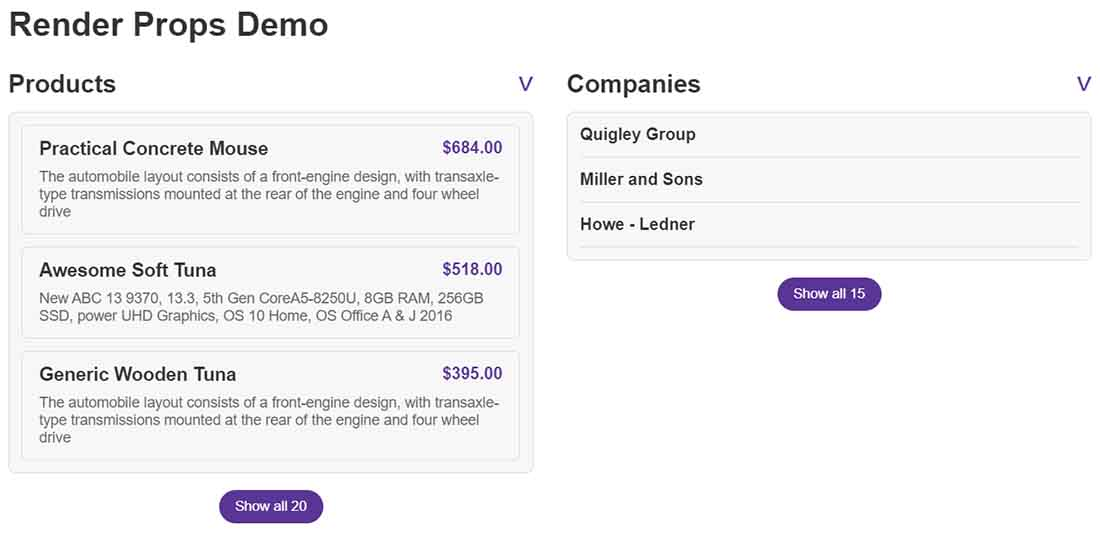
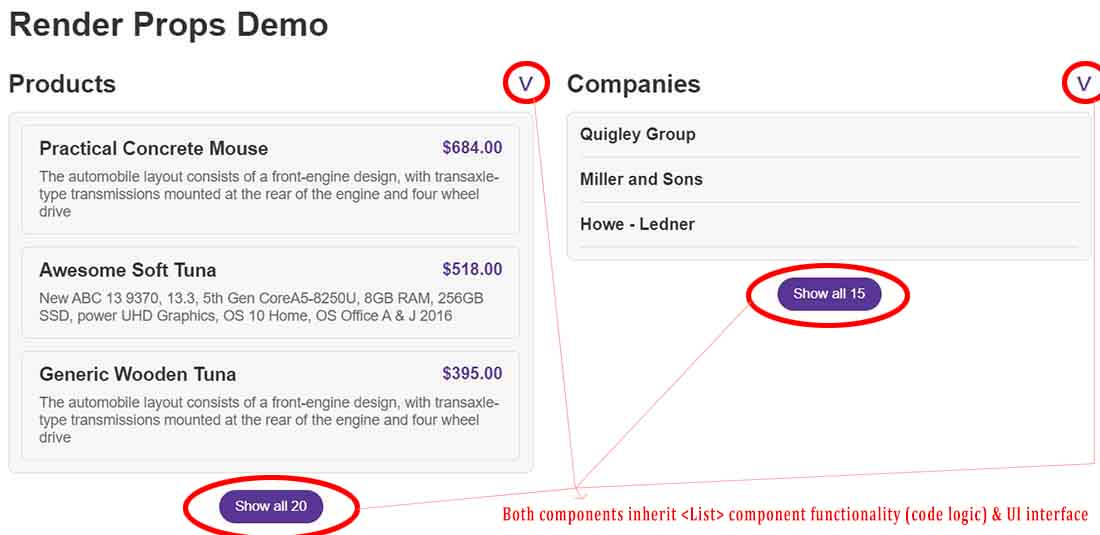
update

diff --git a/src/markdowns/17_Reusability_in_React_advanced_React_patterns/The_HOC_pattern.html b/src/markdowns/17_Reusability_in_React_advanced_React_patterns/The_HOC_pattern.html
@@ -2340,11 +2340,11 @@ li {
 </style><title>The_HOC_pattern</title>
 </head>
 <body class='typora-export os-windows'><div class='typora-export-content'>
-<div id='write'  class=''><h1 id='the-higher-order-components-hoc-pattern'><span>The Higher-Order Components (HOC) pattern</span></h1><p><span>The Higher-Order Component pattern is even less used than Render Prop Pattern, but it still very important for you to know about it. Basically we want to do something similar to what we did with the Render Props pattern, but with the Higher Order Component pattern.</span></p><p><span>Now, I would actually say that almost no one still writes Higher Order Components by hand, but I&#39;m still gonna show you this because some libraries, do actually expose Higher Order Components, and then it&#39;s gonna be very useful to know what they are. So you don&#39;t need to know how to write them and in this lecture, I will just quickly show you a Higher Order Component, what it is, and how it works, and also why it would be used.</span></p><pre class="md-fences md-end-block ty-contain-cm modeLoaded" spellcheck="false" lang="react"><div class="CodeMirror cm-s-inner cm-s-null-scroll CodeMirror-wrap" lang="react"><div style="overflow: hidden; position: relative; width: 3px; height: 0px; top: 9.51875px; left: 8px;"><textarea autocorrect="off" autocapitalize="off" spellcheck="false" tabindex="0" style="position: absolute; bottom: -1em; padding: 0px; width: 1000px; height: 1em; outline: none;"></textarea></div><div class="CodeMirror-scrollbar-filler" cm-not-content="true"></div><div class="CodeMirror-gutter-filler" cm-not-content="true"></div><div class="CodeMirror-scroll" tabindex="-1"><div class="CodeMirror-sizer" style="margin-left: 0px; margin-bottom: 0px; border-right-width: 0px; padding-right: 0px; padding-bottom: 0px;"><div style="position: relative; top: 0px;"><div class="CodeMirror-lines" role="presentation"><div role="presentation" style="position: relative; outline: none;"><div class="CodeMirror-measure"><pre><span>xxxxxxxxxx</span></pre></div><div class="CodeMirror-measure"></div><div style="position: relative; z-index: 1;"></div><div class="CodeMirror-code" role="presentation" style=""><div class="CodeMirror-activeline" style="position: relative;"><div class="CodeMirror-activeline-background CodeMirror-linebackground"></div><div class="CodeMirror-gutter-background CodeMirror-activeline-gutter" style="left: 0px; width: 0px;"></div><pre class=" CodeMirror-line " role="presentation"><span role="presentation" style="padding-right: 0.1px;"><span class="cm-keyword">function</span> <span class="cm-def">ProductList</span>({ <span class="cm-def">title</span>, <span class="cm-def">items</span> }) {</span></pre></div><pre class=" CodeMirror-line " role="presentation"><span role="presentation" style="padding-right: 0.1px;"> &nbsp;<span class="cm-keyword">return</span> (</span></pre><pre class=" CodeMirror-line " role="presentation"><span role="presentation" style="padding-right: 0.1px;"> &nbsp; &nbsp;<span class="cm-tag cm-bracket">&lt;</span><span class="cm-tag">ul</span> <span class="cm-attribute">className</span>=<span class="cm-string">"list"</span><span class="cm-tag cm-bracket">&gt;</span></span></pre><pre class=" CodeMirror-line " role="presentation"><span role="presentation" style="padding-right: 0.1px;"> &nbsp; &nbsp;  {<span class="cm-variable">items</span>.<span class="cm-property">map</span>((<span class="cm-variable">product</span>) <span class="cm-operator">=&gt;</span> (</span></pre><pre class=" CodeMirror-line " role="presentation"><span role="presentation" style="padding-right: 0.1px;"> &nbsp; &nbsp; &nbsp; &nbsp;<span class="cm-tag cm-bracket">&lt;</span><span class="cm-tag">ProductItem</span> <span class="cm-attribute">key</span>={<span class="cm-variable">product</span>.<span class="cm-property">productName</span>} <span class="cm-attribute">product</span>={<span class="cm-variable">product</span>} <span class="cm-tag cm-bracket">/&gt;</span></span></pre><pre class=" CodeMirror-line " role="presentation"><span role="presentation" style="padding-right: 0.1px;"> &nbsp; &nbsp;  ))}</span></pre><pre class=" CodeMirror-line " role="presentation"><span role="presentation" style="padding-right: 0.1px;"> &nbsp; &nbsp;<span class="cm-tag cm-bracket">&lt;/</span><span class="cm-tag">ul</span><span class="cm-tag cm-bracket">&gt;</span></span></pre><pre class=" CodeMirror-line " role="presentation"><span role="presentation" style="padding-right: 0.1px;">  );</span></pre><pre class=" CodeMirror-line " role="presentation"><span role="presentation" style="padding-right: 0.1px;">}</span></pre></div></div></div></div></div><div style="position: absolute; height: 0px; width: 1px; border-bottom: 0px solid transparent; top: 207px;"></div><div class="CodeMirror-gutters" style="display: none; height: 207px;"></div></div></div></pre><p><span>Let&#39;s say we got the </span><code>&lt;ProductList&gt;</code><span> component from a 3rd-party library, and can&#39;t change it, but we still want to add the two toggle functionalities from </span><code>&lt;List&gt;</code><span> component (the component used in Render Props Pattern lecture) to it. So how could we do that?</span></p><p><span>One way would be to </span><mark><span>write a Higher Order Component to basically enhance or improve the </span><code>&lt;ProductList&gt;</code><span> component. A Higher Order Component is simply a component that </span><strong><span>takes in another component</span></strong><span> and then </span><strong><span>returns a new component</span></strong><span> that is better, so an enhanced version of the initial component.</span></mark></p><p><span>I actually already created the Higher Order Component called </span><code>withToggles</code><span> and let&#39;s take a look at it:</span></p><pre class="md-fences md-end-block ty-contain-cm modeLoaded" spellcheck="false" lang="react" style="break-inside: unset;"><div class="CodeMirror cm-s-inner cm-s-null-scroll CodeMirror-wrap" lang="react"><div style="overflow: hidden; position: relative; width: 3px; height: 0px; top: 9.51875px; left: 8px;"><textarea autocorrect="off" autocapitalize="off" spellcheck="false" tabindex="0" style="position: absolute; bottom: -1em; padding: 0px; width: 1000px; height: 1em; outline: none;"></textarea></div><div class="CodeMirror-scrollbar-filler" cm-not-content="true"></div><div class="CodeMirror-gutter-filler" cm-not-content="true"></div><div class="CodeMirror-scroll" tabindex="-1"><div class="CodeMirror-sizer" style="margin-left: 0px; margin-bottom: 0px; border-right-width: 0px; padding-right: 0px; padding-bottom: 0px;"><div style="position: relative; top: 0px;"><div class="CodeMirror-lines" role="presentation"><div role="presentation" style="position: relative; outline: none;"><div class="CodeMirror-measure"><pre><span>xxxxxxxxxx</span></pre></div><div class="CodeMirror-measure"></div><div style="position: relative; z-index: 1;"></div><div class="CodeMirror-code" role="presentation" style=""><div class="CodeMirror-activeline" style="position: relative;"><div class="CodeMirror-activeline-background CodeMirror-linebackground"></div><div class="CodeMirror-gutter-background CodeMirror-activeline-gutter" style="left: 0px; width: 0px;"></div><pre class=" CodeMirror-line " role="presentation"><span role="presentation" style="padding-right: 0.1px;"><span class="cm-keyword">import</span> { <span class="cm-def">useState</span> } <span class="cm-keyword">from</span> <span class="cm-string">"react"</span>;</span></pre></div><pre class=" CodeMirror-line " role="presentation"><span role="presentation" style="padding-right: 0.1px;"><span cm-text="" cm-zwsp="">
+<div id='write'  class=''><h1 id='the-higher-order-components-hoc-pattern'><span>The Higher-Order Components (HOC) pattern</span></h1><p><span>The Higher-Order Component pattern is even less used than Render Prop Pattern, but it still very important for you to know about it. Basically we want to do something similar to what we did with the Render Props pattern, but with the Higher Order Component pattern.</span></p><p><span>Now, I would actually say that almost no one still writes Higher Order Components by hand, but I&#39;m still gonna show you this because some libraries, do actually expose Higher Order Components, and then it&#39;s gonna be very useful to know what they are. So you don&#39;t need to know how to write them and in this lecture, I will just quickly show you a Higher Order Component, what it is, and how it works, and also why it would be used.</span></p><pre class="md-fences md-end-block ty-contain-cm modeLoaded" spellcheck="false" lang="react"><div class="CodeMirror cm-s-inner cm-s-null-scroll CodeMirror-wrap" lang="react"><div style="overflow: hidden; position: relative; width: 3px; height: 0px; top: 9.51875px; left: 8px;"><textarea autocorrect="off" autocapitalize="off" spellcheck="false" tabindex="0" style="position: absolute; bottom: -1em; padding: 0px; width: 1000px; height: 1em; outline: none;"></textarea></div><div class="CodeMirror-scrollbar-filler" cm-not-content="true"></div><div class="CodeMirror-gutter-filler" cm-not-content="true"></div><div class="CodeMirror-scroll" tabindex="-1"><div class="CodeMirror-sizer" style="margin-left: 0px; margin-bottom: 0px; border-right-width: 0px; padding-right: 0px; padding-bottom: 0px;"><div style="position: relative; top: 0px;"><div class="CodeMirror-lines" role="presentation"><div role="presentation" style="position: relative; outline: none;"><div class="CodeMirror-measure"></div><div class="CodeMirror-measure"></div><div style="position: relative; z-index: 1;"></div><div class="CodeMirror-code" role="presentation" style=""><div class="CodeMirror-activeline" style="position: relative;"><div class="CodeMirror-activeline-background CodeMirror-linebackground"></div><div class="CodeMirror-gutter-background CodeMirror-activeline-gutter" style="left: 0px; width: 0px;"></div><pre class=" CodeMirror-line " role="presentation"><span role="presentation" style="padding-right: 0.1px;"><span class="cm-keyword">function</span> <span class="cm-def">ProductList</span>({ <span class="cm-def">title</span>, <span class="cm-def">items</span> }) {</span></pre></div><pre class=" CodeMirror-line " role="presentation"><span role="presentation" style="padding-right: 0.1px;"> &nbsp;<span class="cm-keyword">return</span> (</span></pre><pre class=" CodeMirror-line " role="presentation"><span role="presentation" style="padding-right: 0.1px;"> &nbsp; &nbsp;<span class="cm-tag cm-bracket">&lt;</span><span class="cm-tag">ul</span> <span class="cm-attribute">className</span>=<span class="cm-string">"list"</span><span class="cm-tag cm-bracket">&gt;</span></span></pre><pre class=" CodeMirror-line " role="presentation"><span role="presentation" style="padding-right: 0.1px;"> &nbsp; &nbsp;  {<span class="cm-variable">items</span>.<span class="cm-property">map</span>((<span class="cm-variable">product</span>) <span class="cm-operator">=&gt;</span> (</span></pre><pre class=" CodeMirror-line " role="presentation"><span role="presentation" style="padding-right: 0.1px;"> &nbsp; &nbsp; &nbsp; &nbsp;<span class="cm-tag cm-bracket">&lt;</span><span class="cm-tag">ProductItem</span> <span class="cm-attribute">key</span>={<span class="cm-variable">product</span>.<span class="cm-property">productName</span>} <span class="cm-attribute">product</span>={<span class="cm-variable">product</span>} <span class="cm-tag cm-bracket">/&gt;</span></span></pre><pre class=" CodeMirror-line " role="presentation"><span role="presentation" style="padding-right: 0.1px;"> &nbsp; &nbsp;  ))}</span></pre><pre class=" CodeMirror-line " role="presentation"><span role="presentation" style="padding-right: 0.1px;"> &nbsp; &nbsp;<span class="cm-tag cm-bracket">&lt;/</span><span class="cm-tag">ul</span><span class="cm-tag cm-bracket">&gt;</span></span></pre><pre class=" CodeMirror-line " role="presentation"><span role="presentation" style="padding-right: 0.1px;">  );</span></pre><pre class=" CodeMirror-line " role="presentation"><span role="presentation" style="padding-right: 0.1px;">}</span></pre></div></div></div></div></div><div style="position: absolute; height: 0px; width: 1px; border-bottom: 0px solid transparent; top: 207px;"></div><div class="CodeMirror-gutters" style="display: none; height: 207px;"></div></div></div></pre><p><span>Let&#39;s say we got the </span><code>&lt;ProductList&gt;</code><span> component from a 3rd-party library, and can&#39;t change it, but we still want to add the two toggle functionalities from </span><code>&lt;List&gt;</code><span> component (the component used in Render Props Pattern lecture) to it. So how could we do that?</span></p><p><span>One way would be to </span><mark><span>write a Higher Order Component to basically enhance or improve the </span><code>&lt;ProductList&gt;</code><span> component. A Higher Order Component is simply a component that </span><strong><span>takes in another component</span></strong><span> and then </span><strong><span>returns a new component</span></strong><span> that is better, so an enhanced version of the initial component.</span></mark></p><p><span>I actually already created the Higher Order Component called </span><code>withToggles</code><span> and let&#39;s take a look at it:</span></p><pre class="md-fences md-end-block ty-contain-cm modeLoaded" spellcheck="false" lang="react" style="break-inside: unset;"><div class="CodeMirror cm-s-inner cm-s-null-scroll CodeMirror-wrap" lang="react"><div style="overflow: hidden; position: relative; width: 3px; height: 0px; top: 9.51875px; left: 8px;"><textarea autocorrect="off" autocapitalize="off" spellcheck="false" tabindex="0" style="position: absolute; bottom: -1em; padding: 0px; width: 1000px; height: 1em; outline: none;"></textarea></div><div class="CodeMirror-scrollbar-filler" cm-not-content="true"></div><div class="CodeMirror-gutter-filler" cm-not-content="true"></div><div class="CodeMirror-scroll" tabindex="-1"><div class="CodeMirror-sizer" style="margin-left: 0px; margin-bottom: 0px; border-right-width: 0px; padding-right: 0px; padding-bottom: 0px;"><div style="position: relative; top: 0px;"><div class="CodeMirror-lines" role="presentation"><div role="presentation" style="position: relative; outline: none;"><div class="CodeMirror-measure"><span><span></span>x</span></div><div class="CodeMirror-measure"></div><div style="position: relative; z-index: 1;"></div><div class="CodeMirror-code" role="presentation" style=""><div class="CodeMirror-activeline" style="position: relative;"><div class="CodeMirror-activeline-background CodeMirror-linebackground"></div><div class="CodeMirror-gutter-background CodeMirror-activeline-gutter" style="left: 0px; width: 0px;"></div><pre class=" CodeMirror-line " role="presentation"><span role="presentation" style="padding-right: 0.1px;"><span class="cm-keyword">import</span> { <span class="cm-def">useState</span> } <span class="cm-keyword">from</span> <span class="cm-string">"react"</span>;</span></pre></div><pre class=" CodeMirror-line " role="presentation"><span role="presentation" style="padding-right: 0.1px;"><span cm-text="" cm-zwsp="">
 </span></span></pre><pre class=" CodeMirror-line " role="presentation"><span role="presentation" style="padding-right: 0.1px;"><span class="cm-keyword">export</span> <span class="cm-keyword">default</span> <span class="cm-keyword">function</span> <span class="cm-def">withToggles</span>(<span class="cm-def">WrappedComponent</span>) {</span></pre><pre class=" CodeMirror-line " role="presentation"><span role="presentation" style="padding-right: 0.1px;"> &nbsp;<span class="cm-keyword">return</span> <span class="cm-keyword">function</span> <span class="cm-def">List</span>(<span class="cm-def">props</span>) {</span></pre><pre class=" CodeMirror-line " role="presentation"><span role="presentation" style="padding-right: 0.1px;"> &nbsp; &nbsp;<span class="cm-keyword">const</span> [<span class="cm-def">isOpen</span>, <span class="cm-def">setIsOpen</span>] <span class="cm-operator">=</span> <span class="cm-variable">useState</span>(<span class="cm-atom">true</span>);</span></pre><pre class=" CodeMirror-line " role="presentation"><span role="presentation" style="padding-right: 0.1px;"> &nbsp; &nbsp;<span class="cm-keyword">const</span> [<span class="cm-def">isCollapsed</span>, <span class="cm-def">setIsCollapsed</span>] <span class="cm-operator">=</span> <span class="cm-variable">useState</span>(<span class="cm-atom">false</span>);</span></pre><pre class=" CodeMirror-line " role="presentation"><span role="presentation" style="padding-right: 0.1px;"><span cm-text="" cm-zwsp="">
 </span></span></pre><pre class=" CodeMirror-line " role="presentation"><span role="presentation" style="padding-right: 0.1px;"> &nbsp; &nbsp;<span class="cm-keyword">const</span> <span class="cm-def">displayItems</span> <span class="cm-operator">=</span> <span class="cm-variable-2">isCollapsed</span> <span class="cm-operator">?</span> <span class="cm-variable-2">props</span>.<span class="cm-property">items</span>.<span class="cm-property">slice</span>(<span class="cm-number">0</span>, <span class="cm-number">3</span>) : <span class="cm-variable-2">props</span>.<span class="cm-property">items</span>;</span></pre><pre class=" CodeMirror-line " role="presentation"><span role="presentation" style="padding-right: 0.1px;"><span cm-text="" cm-zwsp="">
 </span></span></pre><pre class=" CodeMirror-line " role="presentation"><span role="presentation" style="padding-right: 0.1px;"> &nbsp; &nbsp;<span class="cm-keyword">function</span> <span class="cm-def">toggleOpen</span>() {</span></pre><pre class=" CodeMirror-line " role="presentation"><span role="presentation" style="padding-right: 0.1px;"> &nbsp; &nbsp; &nbsp;<span class="cm-variable-2">setIsOpen</span>((<span class="cm-def">isOpen</span>) <span class="cm-operator">=&gt;</span> <span class="cm-operator">!</span><span class="cm-variable-2">isOpen</span>);</span></pre><pre class=" CodeMirror-line " role="presentation"><span role="presentation" style="padding-right: 0.1px;"> &nbsp; &nbsp; &nbsp;<span class="cm-variable-2">setIsCollapsed</span>(<span class="cm-atom">false</span>);</span></pre><pre class=" CodeMirror-line " role="presentation"><span role="presentation" style="padding-right: 0.1px;"> &nbsp;  }</span></pre><pre class=" CodeMirror-line " role="presentation"><span role="presentation" style="padding-right: 0.1px;"><span cm-text="" cm-zwsp="">
 </span></span></pre><pre class=" CodeMirror-line " role="presentation"><span role="presentation" style="padding-right: 0.1px;"> &nbsp; &nbsp;<span class="cm-keyword">return</span> (</span></pre><pre class=" CodeMirror-line " role="presentation"><span role="presentation" style="padding-right: 0.1px;"> &nbsp; &nbsp; &nbsp;<span class="cm-tag cm-bracket">&lt;</span><span class="cm-tag">div</span> <span class="cm-attribute">className</span>=<span class="cm-string">"list-container"</span><span class="cm-tag cm-bracket">&gt;</span></span></pre><pre class=" CodeMirror-line " role="presentation"><span role="presentation" style="padding-right: 0.1px;"> &nbsp; &nbsp; &nbsp; &nbsp;<span class="cm-tag cm-bracket">&lt;</span><span class="cm-tag">div</span> <span class="cm-attribute">className</span>=<span class="cm-string">"heading"</span><span class="cm-tag cm-bracket">&gt;</span></span></pre><pre class=" CodeMirror-line " role="presentation"><span role="presentation" style="padding-right: 0.1px;"> &nbsp; &nbsp; &nbsp; &nbsp; &nbsp;<span class="cm-tag cm-bracket">&lt;</span><span class="cm-tag">h2</span><span class="cm-tag cm-bracket">&gt;</span>{<span class="cm-variable">props</span>.<span class="cm-property">title</span>}<span class="cm-tag cm-bracket">&lt;/</span><span class="cm-tag">h2</span><span class="cm-tag cm-bracket">&gt;</span></span></pre><pre class=" CodeMirror-line " role="presentation"><span role="presentation" style="padding-right: 0.1px;"> &nbsp; &nbsp; &nbsp; &nbsp; &nbsp;<span class="cm-tag cm-bracket">&lt;</span><span class="cm-tag">button</span> <span class="cm-attribute">onClick</span>={<span class="cm-variable">toggleOpen</span>}<span class="cm-tag cm-bracket">&gt;</span></span></pre><pre class=" CodeMirror-line " role="presentation"><span role="presentation" style="padding-right: 0.1px;"> &nbsp; &nbsp; &nbsp; &nbsp; &nbsp;  {<span class="cm-variable">isOpen</span> <span class="cm-operator">?</span> <span class="cm-tag cm-bracket">&lt;</span><span class="cm-tag">span</span><span class="cm-tag cm-bracket">&gt;</span><span class="cm-atom">&amp;or;</span><span class="cm-tag cm-bracket">&lt;/</span><span class="cm-tag">span</span><span class="cm-tag cm-bracket">&gt;</span> : <span class="cm-tag cm-bracket">&lt;</span><span class="cm-tag">span</span><span class="cm-tag cm-bracket">&gt;</span><span class="cm-atom">&amp;and;</span><span class="cm-tag cm-bracket">&lt;/</span><span class="cm-tag">span</span><span class="cm-tag cm-bracket">&gt;</span>}</span></pre><pre class=" CodeMirror-line " role="presentation"><span role="presentation" style="padding-right: 0.1px;"> &nbsp; &nbsp; &nbsp; &nbsp; &nbsp;<span class="cm-tag cm-bracket">&lt;/</span><span class="cm-tag">button</span><span class="cm-tag cm-bracket">&gt;</span></span></pre><pre class=" CodeMirror-line " role="presentation"><span role="presentation" style="padding-right: 0.1px;"> &nbsp; &nbsp; &nbsp; &nbsp;<span class="cm-tag cm-bracket">&lt;/</span><span class="cm-tag">div</span><span class="cm-tag cm-bracket">&gt;</span></span></pre><pre class=" CodeMirror-line " role="presentation"><span role="presentation" style="padding-right: 0.1px;"> &nbsp; &nbsp; &nbsp;  {<span class="cm-variable">isOpen</span> <span class="cm-operator">&amp;&amp;</span> <span class="cm-tag cm-bracket">&lt;</span><span class="cm-tag">WrappedComponent</span> {<span class="cm-meta">...</span><span class="cm-variable">props</span>} <span class="cm-attribute">items</span>={<span class="cm-variable">displayItems</span>} <span class="cm-tag cm-bracket">/&gt;</span>}</span></pre><pre class=" CodeMirror-line " role="presentation"><span role="presentation" style="padding-right: 0.1px;"><span cm-text="" cm-zwsp="">
-</span></span></pre><pre class=" CodeMirror-line " role="presentation"><span role="presentation" style="padding-right: 0.1px;"> &nbsp; &nbsp; &nbsp; &nbsp;<span class="cm-tag cm-bracket">&lt;</span><span class="cm-tag">button</span> <span class="cm-attribute">onClick</span>={() <span class="cm-operator">=&gt;</span> <span class="cm-variable">setIsCollapsed</span>((<span class="cm-def">isCollapsed</span>) <span class="cm-operator">=&gt;</span> <span class="cm-operator">!</span><span class="cm-variable-2">isCollapsed</span>)}<span class="cm-tag cm-bracket">&gt;</span></span></pre><pre class=" CodeMirror-line " role="presentation"><span role="presentation" style="padding-right: 0.1px;"> &nbsp; &nbsp; &nbsp; &nbsp;  {<span class="cm-variable">isCollapsed</span> <span class="cm-operator">?</span> <span class="cm-string-2">`Show all ${</span><span class="cm-variable">props</span>.<span class="cm-property">items</span>.<span class="cm-property">length</span><span class="cm-string-2">}`</span> : <span class="cm-string">"Show less"</span>}</span></pre><pre class=" CodeMirror-line " role="presentation"><span role="presentation" style="padding-right: 0.1px;"> &nbsp; &nbsp; &nbsp; &nbsp;<span class="cm-tag cm-bracket">&lt;/</span><span class="cm-tag">button</span><span class="cm-tag cm-bracket">&gt;</span></span></pre><pre class=" CodeMirror-line " role="presentation"><span role="presentation" style="padding-right: 0.1px;"> &nbsp; &nbsp; &nbsp;<span class="cm-tag cm-bracket">&lt;/</span><span class="cm-tag">div</span><span class="cm-tag cm-bracket">&gt;</span></span></pre><pre class=" CodeMirror-line " role="presentation"><span role="presentation" style="padding-right: 0.1px;"> &nbsp;  );</span></pre><pre class=" CodeMirror-line " role="presentation"><span role="presentation" style="padding-right: 0.1px;">  };</span></pre><pre class=" CodeMirror-line " role="presentation"><span role="presentation" style="padding-right: 0.1px;">}</span></pre></div></div></div></div></div><div style="position: absolute; height: 0px; width: 1px; border-bottom: 0px solid transparent; top: 714px;"></div><div class="CodeMirror-gutters" style="display: none; height: 714px;"></div></div></div></pre><p><mark><code>withToggles</code><span> will basically add back the two toggles from the </span><code>&lt;List&gt;</code><span> component. It&#39;s pretty common that a Higher Order Component is called something that starts with </span><code>with</code><span> keyword, so that&#39;s kind of a convention,</span></mark><span> because basically it will add the toggles to the component that we pass in with the help of </span><code>WrappedComponent</code><span> argument. So then we have a new component with toggles.</span></p><p><mark><span>The way in which we write a Higher Order Component is not that important. What matters is that it&#39;s usually called something that starts with </span><code>with</code><span> keyword,  and that it </span><strong><span>takes in one component</span></strong><span> and </span><strong><span>returns a new one</span></strong><span>, and the new one adds some functionality to that passing component.</span></mark></p><pre class="md-fences md-end-block ty-contain-cm modeLoaded" spellcheck="false" lang="react"><div class="CodeMirror cm-s-inner cm-s-null-scroll CodeMirror-wrap" lang="react"><div style="overflow: hidden; position: relative; width: 3px; height: 0px; top: 9.35941px; left: 8px;"><textarea autocorrect="off" autocapitalize="off" spellcheck="false" tabindex="0" style="position: absolute; bottom: -1em; padding: 0px; width: 1000px; height: 1em; outline: none;"></textarea></div><div class="CodeMirror-scrollbar-filler" cm-not-content="true"></div><div class="CodeMirror-gutter-filler" cm-not-content="true"></div><div class="CodeMirror-scroll" tabindex="-1"><div class="CodeMirror-sizer" style="margin-left: 0px; margin-bottom: 0px; border-right-width: 0px; padding-right: 0px; padding-bottom: 0px;"><div style="position: relative; top: 0px;"><div class="CodeMirror-lines" role="presentation"><div role="presentation" style="position: relative; outline: none;"><div class="CodeMirror-measure"><pre><span>xxxxxxxxxx</span></pre></div><div class="CodeMirror-measure"></div><div style="position: relative; z-index: 1;"></div><div class="CodeMirror-code" role="presentation"><div class="CodeMirror-activeline" style="position: relative;"><div class="CodeMirror-activeline-background CodeMirror-linebackground"></div><div class="CodeMirror-gutter-background CodeMirror-activeline-gutter" style="left: 0px; width: 0px;"></div><pre class=" CodeMirror-line " role="presentation"><span role="presentation" style="padding-right: 0.1px;"><span class="cm-keyword">const</span> <span class="cm-def">ProductListWithToggles</span> <span class="cm-operator">=</span> <span class="cm-variable">withToggles</span>(<span class="cm-variable">ProductList</span>); <span class="cm-comment">// we store the new component created by withToggles() in ProductListWithToggles</span></span></pre></div></div></div></div></div></div><div style="position: absolute; height: 0px; width: 1px; border-bottom: 0px solid transparent; top: 46px;"></div><div class="CodeMirror-gutters" style="display: none; height: 46px;"></div></div></div></pre><p><img src="../../img/Reusability_in_React04.jpg" referrerpolicy="no-referrer" alt="Reusability_in_React04"></p><p><span>With the Higher-Order Component pattern we reached our goal of enhancing the </span><code>&lt;ProductList&gt;</code><span> component with the features that we wanted it to have from </span><code>&lt;List&gt;</code><span> component. So if in any case you ever use a library which exports or which provides you with a Higher Order Component like this, then this is the logic behind that. So you called a Higher Order Component with another component as argument, and it will then return you an enhanced component.</span></p><h2 id='references'><span>References</span></h2><ol start='' ><li><p><a href='https://www.udemy.com/course/the-ultimate-react-course/'><span>The Ultimate React Course: React, Redux &amp; More - Jonas Schmedtmann</span></a></p></li></ol></div></div>
+</span></span></pre><pre class=" CodeMirror-line " role="presentation"><span role="presentation" style="padding-right: 0.1px;"> &nbsp; &nbsp; &nbsp; &nbsp;<span class="cm-tag cm-bracket">&lt;</span><span class="cm-tag">button</span> <span class="cm-attribute">onClick</span>={() <span class="cm-operator">=&gt;</span> <span class="cm-variable">setIsCollapsed</span>((<span class="cm-def">isCollapsed</span>) <span class="cm-operator">=&gt;</span> <span class="cm-operator">!</span><span class="cm-variable-2">isCollapsed</span>)}<span class="cm-tag cm-bracket">&gt;</span></span></pre><pre class=" CodeMirror-line " role="presentation"><span role="presentation" style="padding-right: 0.1px;"> &nbsp; &nbsp; &nbsp; &nbsp;  {<span class="cm-variable">isCollapsed</span> <span class="cm-operator">?</span> <span class="cm-string-2">`Show all ${</span><span class="cm-variable">props</span>.<span class="cm-property">items</span>.<span class="cm-property">length</span><span class="cm-string-2">}`</span> : <span class="cm-string">"Show less"</span>}</span></pre><pre class=" CodeMirror-line " role="presentation"><span role="presentation" style="padding-right: 0.1px;"> &nbsp; &nbsp; &nbsp; &nbsp;<span class="cm-tag cm-bracket">&lt;/</span><span class="cm-tag">button</span><span class="cm-tag cm-bracket">&gt;</span></span></pre><pre class=" CodeMirror-line " role="presentation"><span role="presentation" style="padding-right: 0.1px;"> &nbsp; &nbsp; &nbsp;<span class="cm-tag cm-bracket">&lt;/</span><span class="cm-tag">div</span><span class="cm-tag cm-bracket">&gt;</span></span></pre><pre class=" CodeMirror-line " role="presentation"><span role="presentation" style="padding-right: 0.1px;"> &nbsp;  );</span></pre><pre class=" CodeMirror-line " role="presentation"><span role="presentation" style="padding-right: 0.1px;">  };</span></pre><pre class=" CodeMirror-line " role="presentation"><span role="presentation" style="padding-right: 0.1px;">}</span></pre></div></div></div></div></div><div style="position: absolute; height: 0px; width: 1px; border-bottom: 0px solid transparent; top: 714px;"></div><div class="CodeMirror-gutters" style="display: none; height: 714px;"></div></div></div></pre><p><mark><code>withToggles</code><span> will basically add back the two toggles from the </span><code>&lt;List&gt;</code><span> component. It&#39;s pretty common that a Higher Order Component is called something that starts with </span><code>with</code><span> keyword, so that&#39;s kind of a convention,</span></mark><span> because basically it will add the toggles to the component that we pass in with the help of </span><code>WrappedComponent</code><span> argument. So then we have a new component with toggles.</span></p><p><mark><span>The way in which we write a Higher Order Component is not that important. What matters is that it&#39;s usually called something that starts with </span><code>with</code><span> keyword,  and that it </span><strong><span>takes in one component</span></strong><span> and </span><strong><span>returns a new one</span></strong><span>, and the new one adds some functionality to that passing component.</span></mark></p><pre class="md-fences md-end-block ty-contain-cm modeLoaded" spellcheck="false" lang="react"><div class="CodeMirror cm-s-inner cm-s-null-scroll CodeMirror-wrap" lang="react"><div style="overflow: hidden; position: relative; width: 3px; height: 0px; top: 9.35941px; left: 8px;"><textarea autocorrect="off" autocapitalize="off" spellcheck="false" tabindex="0" style="position: absolute; bottom: -1em; padding: 0px; width: 1000px; height: 1em; outline: none;"></textarea></div><div class="CodeMirror-scrollbar-filler" cm-not-content="true"></div><div class="CodeMirror-gutter-filler" cm-not-content="true"></div><div class="CodeMirror-scroll" tabindex="-1"><div class="CodeMirror-sizer" style="margin-left: 0px; margin-bottom: 0px; border-right-width: 0px; padding-right: 0px; padding-bottom: 0px;"><div style="position: relative; top: 0px;"><div class="CodeMirror-lines" role="presentation"><div role="presentation" style="position: relative; outline: none;"><div class="CodeMirror-measure"><pre><span>xxxxxxxxxx</span></pre></div><div class="CodeMirror-measure"></div><div style="position: relative; z-index: 1;"></div><div class="CodeMirror-code" role="presentation"><div class="CodeMirror-activeline" style="position: relative;"><div class="CodeMirror-activeline-background CodeMirror-linebackground"></div><div class="CodeMirror-gutter-background CodeMirror-activeline-gutter" style="left: 0px; width: 0px;"></div><pre class=" CodeMirror-line " role="presentation"><span role="presentation" style="padding-right: 0.1px;"><span class="cm-keyword">const</span> <span class="cm-def">ProductListWithToggles</span> <span class="cm-operator">=</span> <span class="cm-variable">withToggles</span>(<span class="cm-variable">ProductList</span>); <span class="cm-comment">// we store the new component created by withToggles() in ProductListWithToggles</span></span></pre></div></div></div></div></div></div><div style="position: absolute; height: 0px; width: 1px; border-bottom: 0px solid transparent; top: 46px;"></div><div class="CodeMirror-gutters" style="display: none; height: 46px;"></div></div></div></pre><p><img src="../../img/Reusability_in_React04.jpg" referrerpolicy="no-referrer" alt="Reusability_in_React04"></p><p><span>With the Higher-Order Component pattern we reached our goal of enhancing the </span><code>&lt;ProductList&gt;</code><span> component with the features that we wanted it to have from </span><code>&lt;List&gt;</code><span> component. So if in any case you ever use a library which exports or which provides you with a Higher Order Component like this, then this is the logic behind that. So you called a Higher Order Component with another component as argument, and it will then return you an enhanced component.</span></p><p><span>All three components </span><mark><span>inherit the stateful logic &amp; UI interface</span></mark><span> from the </span><code>&lt;List&gt;</code><span> component:</span></p><ul><li><p><span>the first two are build with the React Props Pattern;</span></p></li><li><p><span>the last is build with HOC Pattern.</span></p></li></ul><p><img src="../../img/Reusability_in_React05.jpg" referrerpolicy="no-referrer" alt="Reusability_in_React05"></p><h2 id='references'><span>References</span></h2><ol start='' ><li><p><a href='https://www.udemy.com/course/the-ultimate-react-course/'><span>The Ultimate React Course: React, Redux &amp; More - Jonas Schmedtmann</span></a></p></li></ol></div></div>
 </body>
 </html>

diff --git a/src/markdowns/17_Reusability_in_React_advanced_React_patterns/The_HOC_pattern.md b/src/markdowns/17_Reusability_in_React_advanced_React_patterns/The_HOC_pattern.md
@@ -68,6 +68,13 @@ const ProductListWithToggles = withToggles(ProductList); // we store the new com
 
 With the Higher-Order Component pattern we reached our goal of enhancing the `<ProductList>` component with the features that we wanted it to have from `<List>` component. So if in any case you ever use a library which exports or which provides you with a Higher Order Component like this, then this is the logic behind that. So you called a Higher Order Component with another component as argument, and it will then return you an enhanced component.
 
+All three components ==inherit the stateful logic & UI interface== from the `<List>` component:
+
+- the first two are build with the React Props Pattern;
+- the last is build with HOC Pattern.
+
+![Reusability_in_React05](../../img/Reusability_in_React05.jpg)
+
 ## References
 
 1. [The Ultimate React Course: React, Redux & More - Jonas Schmedtmann](https://www.udemy.com/course/the-ultimate-react-course/)
